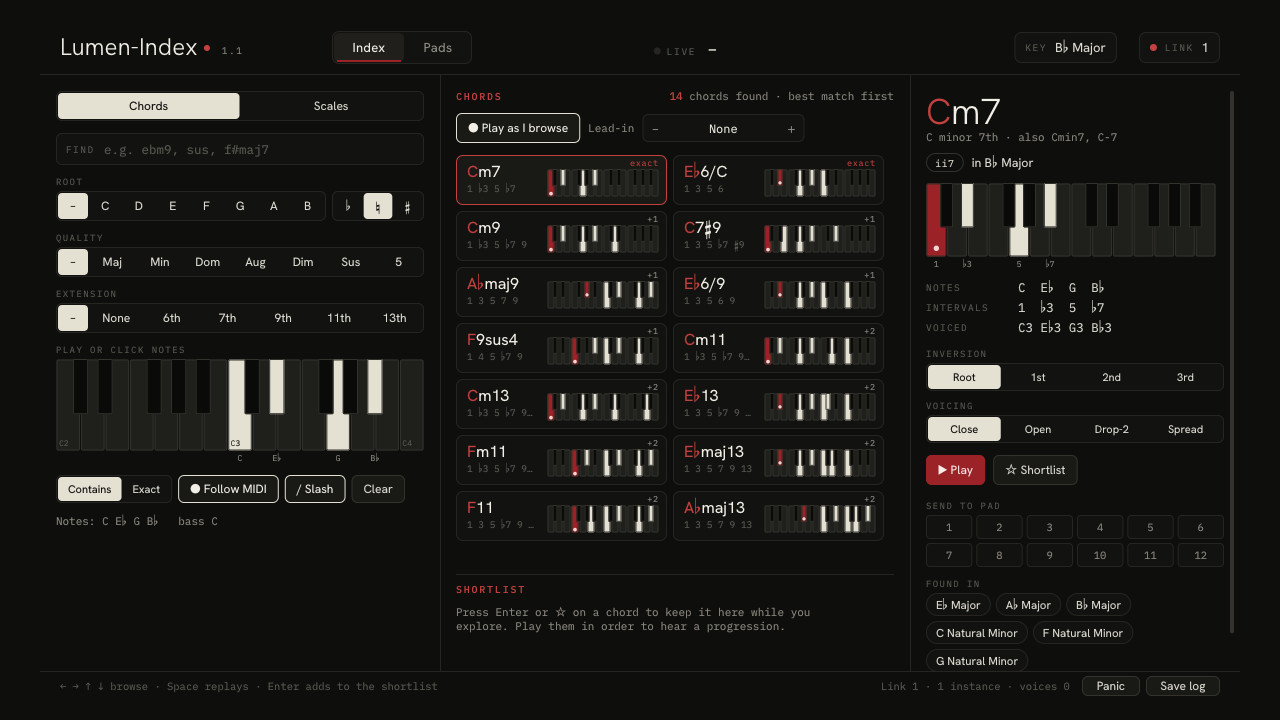
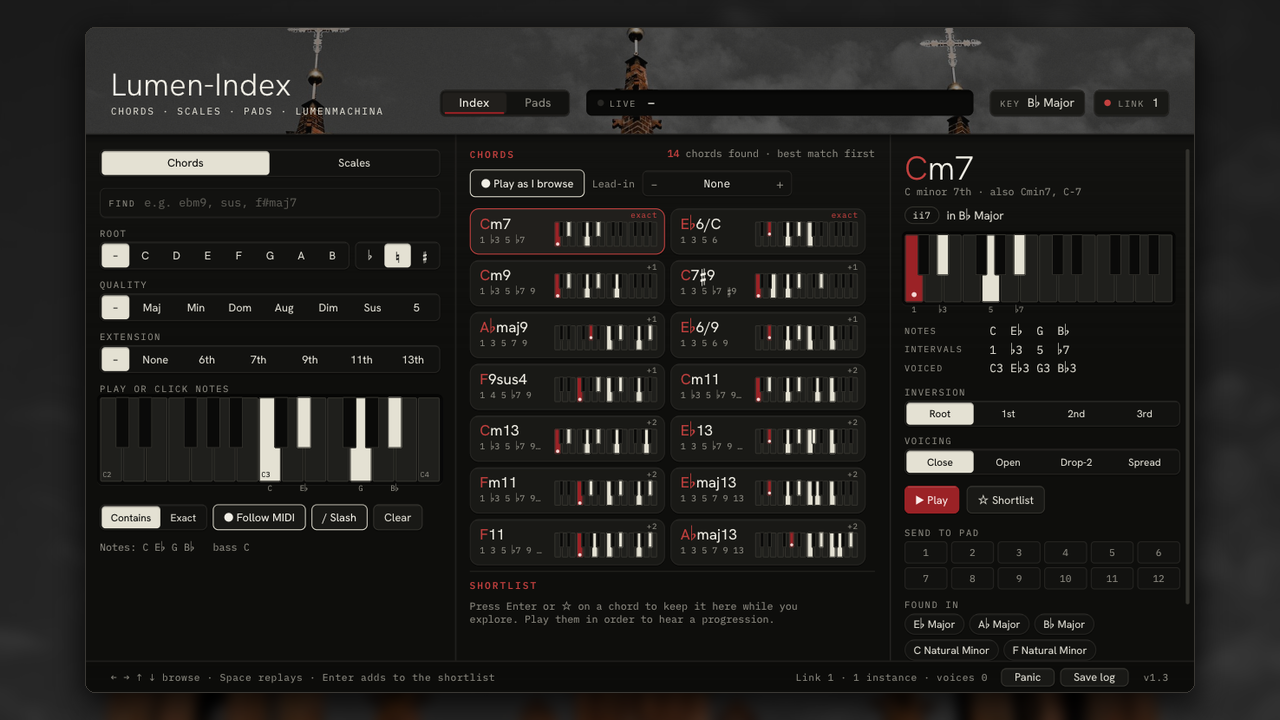
Lumen-Index 1.3: its page, the table, roadmap, screenshots and store covers
Claude-Session: https://claude.ai/code/session_01UJgLAssBDWTF9GFMoTxngF

diff --git a/plugins/lumen-index.md b/plugins/lumen-index.md
@@ -1,22 +1,32 @@
 # Lumen-Index
 
-**A chord and scale companion for making music.** Find any chord or scale by name or by the notes you play, put chords on 12 pads, play them with strums and arpeggios, let a progression play them in time, and drag the results straight into your song.
+**A chord and scale companion for making music.** Find any chord or scale by name or by the notes you play. Put chords on 12 pads and play them with strums, arpeggios and smooth voice leading, and let a progression play them in time. Follow along on a melody or bass track, catch what you played, and drag all of it straight into your song as MIDI.
 
-Runs in **Bitwig Studio** and **Logic Pro**, and as a **standalone app** for MIDI keyboards and hardware synths, on Windows and Mac. Current version: **1.1**.
+Runs in **Bitwig Studio** and **Logic Pro**, and as a **standalone app** for MIDI keyboards and hardware synths, on Windows and Mac. Current version: **1.3**.
 
-![The Index page: chords containing C, E♭, G and B♭, in B♭ major](../docs/images/lumen-index/index.png)
+![The Pads page: the progression playing Dm7, G7 glowing as the usual next chord, borrowed chords on pads 8 to 12](../docs/images/lumen-index/pads.png)
+
+## New in 1.3
+
+- **Smooth voice leading:** each pad picks the inversion nearest the chord before it, so the notes move like a keyboard player's hands.
+- **Hints:** after a pad plays, the pads that usually come next light up, with a pale glow for a twist that works.
+- **Borrowed chords:** one click puts chords from the parallel key on pads 8 to 12 (in C major: Fm, A♭, B♭, E♭, Gm).
+- **Caught:** the melody and bass guides keep the last four chords with what you played over each, ready to drag out.
+- A new look from the Lumen design book: the red-brick spires header and a touch of depth on every control.
 
 ## Find chords and scales
 
-Every common chord and scale, searchable by name (`Ebm9`, `sus`, `maj7#11`, `dorian`, `d hirajoshi`) or by the notes you play or click, with the best match first. Browse with the arrow keys and each chord plays as you go. Keep the good ones in a shortlist and play it back as a progression.
+Every common chord and scale, searchable by name (`Ebm9`, `sus`, `maj7#11`, `dorian`, `d hirajoshi`) or by the notes you play or click, with the best match first. Browse with the arrow keys and each chord plays as you go; a lead-in pad plays before each one, so you hear it coming from the chord before. Keep the good ones in a shortlist and play it back as a progression.
 
 Every chord shows its notes, intervals, Roman numeral in your key and the scales it belongs to. Every scale shows its modes and the chords that fit each degree.
 
-![The Scales view: C minor pentatonic, its modes and the chords on each degree](../docs/images/lumen-index/scales.png)
+![The Index page: chords containing C, E♭, G and B♭, in B♭ major](../docs/images/lumen-index/index.png)
 
 ## Play chords on pads
 
-Twelve pads on one octave of your keyboard. Any chord on any pad, each with its own inversion, voicing (close, open, drop-2, spread) and octave. Fill pads 1 to 7 from your key in one click, as triads, 7ths or 9ths.
+Twelve pads on one octave of your keyboard. Any chord on any pad, each with its own inversion, voicing (close, open, drop-2, spread) and octave. **Fill 1–7** puts your key's chords on the first seven pads as triads, 7ths or 9ths, and **Borrowed** puts chords from the parallel key on the other five: the colours behind a lot of bittersweet and shoegaze progressions.
+
+Turn on **Smooth** and every chord leads into the next with as little movement as possible, never far from where you set the pad. Turn on **Hints** and, after each pad, the usual next chords glow bright red, other common ones get a dim red edge, and one surprising-but-good option gets a pale glow.
 
 Each pad has its own **strum**, **velocity** curve, **arpeggio** (up, down, up/down, random or chord; 1/4 to 1/32 with triplets; one to three octaves) and **humanize**. Save all twelve pads as a named **pad set** and load it in any project.
 
@@ -24,17 +34,19 @@ Each pad has its own **strum**, **velocity** curve, **arpeggio** (up, down, up/d
 
 The progression strip under the pads plays them in order, in time with your song: up to 16 slots, looping over 4, 8 or 16 bars. Click a slot, then click pads, and they fill in order. It follows loops and jumps in your song and changes chords exactly on the beat. Press a pad yourself and it takes over until you let go.
 
-![The Pads page: the progression playing Dm7 in bar 2, pad 5 set to arpeggiate](../docs/images/lumen-index/pads.png)
-
-## Get it into your song
-
-Drag a pad, a chord, the shortlist, all twelve pads or the whole progression onto your arranger, and it lands as a MIDI clip with the real notes, strums and arpeggios included. The live display names whatever is playing, with its numeral in your key.
+![The Scales view: C minor pentatonic, its modes and the chords on each degree](../docs/images/lumen-index/scales.png)
 
 ## Guide your melody and bass
 
 Put Lumen-Index on a melody or bass track too and link it to your pads track. The guide shows the chord being played, lights its tones, and checks each note you play against the chord and the key. **Snap** can move stray notes to the nearest one in the scale or chord, or mute them.
 
-![The Melody guide following Dm7 from the pads track](../docs/images/lumen-index/melody.png)
+**Caught** keeps the last four chords, each with the notes you played over it, how long it lasted and a little piano roll, so fast changes are easy to follow and fill. Click a card to hear its chord. Drag a card out for the line you played over it, or drag the whole line, or the chords at their real lengths.
+
+![The Melody guide: the last four chords caught, with the notes played over each](../docs/images/lumen-index/melody.png)
+
+## Get it into your song
+
+Drag a pad, a chord, the shortlist, all twelve pads, the whole progression or a caught line onto your arranger, and it lands as a MIDI clip with the real notes, strums and arpeggios included. The live display names whatever is playing, with its numeral in your key.
 
 ## Work with hardware
 

diff --git a/README.md b/README.md
@@ -8,16 +8,16 @@ Every plugin takes its look from one of Lumen-Machina's photographs: its colors,
 
 | Plugin | What it is | Status |
 |---|---|---|
-| **[Lumen-Index](plugins/lumen-index.md)** | A chord and scale companion: find any chord or scale by name or by the notes you play, put chords on 12 pads, play them with strums and arpeggios, run a progression in time with your song, and drag it all into your arrangement as MIDI. Also a standalone app for MIDI keyboards and hardware synths. | **Released** (1.1) |
+| **[Lumen-Index](plugins/lumen-index.md)** | A chord and scale companion: find any chord or scale by name or by the notes you play, put chords on 12 pads with borrowed chords and smooth voice leading, run a progression in time with your song, catch what you play over it, and drag it all into your arrangement as MIDI. Also a standalone app for MIDI keyboards and hardware synths. | **Released** (1.3) |
 | **Lumen-Haze** | A tape-worn polysynth for soft pads, fuzzy leads and shoegaze walls. | In development |
 | **Lumen-Oxide** | A tape machine effect: saturation, wow, flutter, hiss and wear, with five tape types (Ferric, Chrome, Reel, VHS, Micro) and three tape speeds. For single tracks, drum buses or a whole mix. | In testing (0.1) |
 | **[Lumen-Serra](plugins/lumen-serra.md)** | A synth built only from saw waves: 32 saw shapes in two banks, four drifting unison stacks, saw-made pulse width, hard sync, eight filter types and a string-machine ensemble. 36 presets. | **Released** (1.0) |
 
 ## Lumen-Index
 
-[![Lumen-Index: finding chords by the notes you play](docs/images/lumen-index/index.png)](plugins/lumen-index.md)
+[![Lumen-Index: the pads, with G7 glowing as the usual next chord after Dm7](docs/images/lumen-index/pads.png)](plugins/lumen-index.md)
 
-Find chords and scales by name or by ear, play them from 12 pads with strums and arpeggios, run a progression in time with your song, and drag it all into your arrangement. **[See everything Lumen-Index does →](plugins/lumen-index.md)** · **[Get it on Gumroad →](https://lumenmachina.gumroad.com/l/lumen-index)**
+Find chords and scales by name or by ear, play them from 12 pads with smooth voice leading and hints for what comes next, run a progression in time with your song, catch the line you play over it, and drag it all into your arrangement. New in 1.3: Smooth, Hints, Borrowed chords and Caught. **[See everything Lumen-Index does →](plugins/lumen-index.md)** · **[Get it on Gumroad →](https://lumenmachina.gumroad.com/l/lumen-index)**
 
 ## Lumen-Serra
 

diff --git a/ROADMAP.md b/ROADMAP.md
@@ -4,7 +4,7 @@ What is coming next, roughly in order. Plans change as each plugin is played wit
 
 ## Now
 - **Lumen-Serra 1.0** is out: the saw synth, with 36 presets. Bug reports and preset ideas welcome.
-- **Lumen-Index:** maintenance releases; bug reports welcome.
+- **Lumen-Index 1.3** is out: smooth voice leading, next-chord hints, borrowed chords, and the catcher on the melody and bass guides. Bug reports welcome.
 - **Lumen-Core:** shared parts for the whole suite. The tape engine and the design book (the look every window is built from) are in; knobs, meters and the preset code are next.
 
 ## Next
